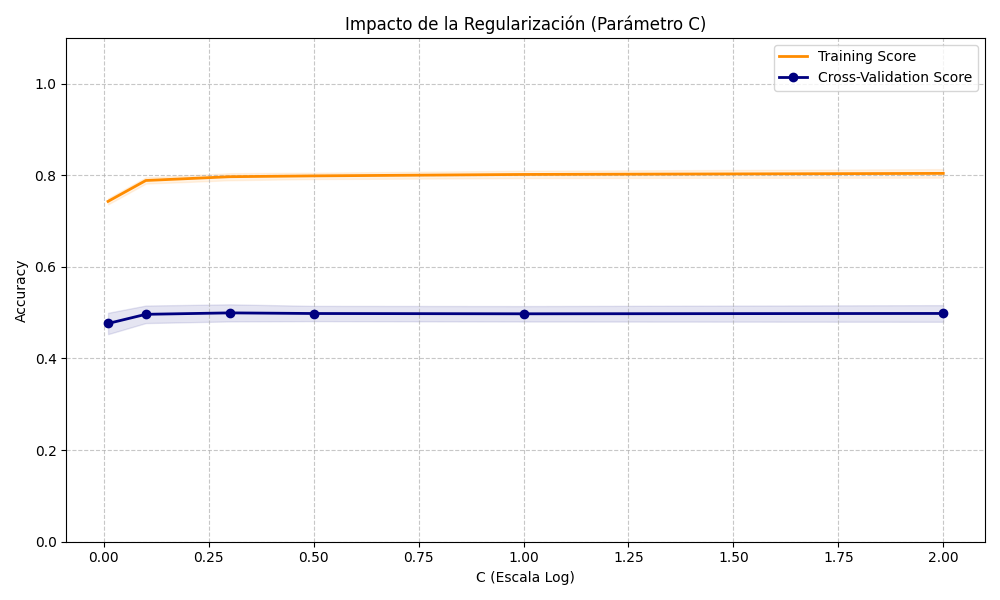
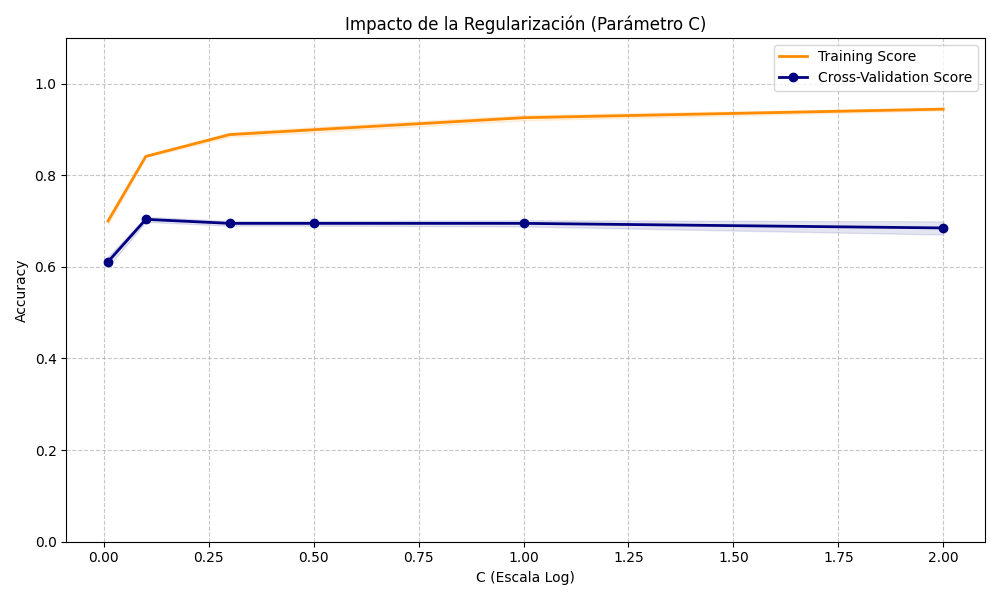
30s

diff --git a/main.py b/main.py
@@ -65,7 +65,7 @@ def triar_model():
     print(" [9] Tots els models de CLASSIFICACIÓ (1-9)")
     
     while True:
-        choice = input("Introdueix 0-10: ").strip()
+        choice = input("Introdueix 0-9: ").strip()
         if choice.isdigit() and 0 <= int(choice) <= 10:
             return choice
         else:
@@ -129,7 +129,7 @@ def main():
         model_map_classificacio = {
             '1': lambda: executar_knn(X_train, X_test, y_train, y_test, label_encoder, data_type, best_k=4, best_weights='distance', best_p=1),
             '2': lambda: executar_random_forest(X_train, X_test, y_train, y_test, label_encoder, data_type, n_estimators=50, max_depth=8, min_samples_split=15, min_samples_leaf=5),
-            '3': lambda: executar_svm(X_train, X_test, y_train, y_test, label_encoder, data_type, C=1, gamma=0.005),
+            '3': lambda: executar_svm(X_train, X_test, y_train, y_test, label_encoder, data_type, C=1, gamma=0.002), #3s(c=1,gamma=0.005), 30s (c=1,gamma=0.002)
             '4': lambda: executar_xgboost(X_train, X_test, y_train, y_test, label_encoder, scaler, data_type),
             '5': lambda: executar_regressio_logistica(X_train, X_test, y_train, y_test, label_encoder, data_type),
             '6': lambda: executar_decision_tree(X_train, X_test, y_train, y_test, label_encoder, data_type),
@@ -156,7 +156,7 @@ def main():
                     prob_dict[result['model']] = result['probabilities']
                     model_names_list.append(result['model'])
 
-            if choice == '10' and prob_dict:
+            if choice == '9' and prob_dict:
                 plot_comparative_roc(y_test, prob_dict, model_names_list, label_encoder.classes_, data_type)
 
             # TAULA FINAL

diff --git a/Analisis_LR.py b/Analisis_LR.py
@@ -42,7 +42,7 @@ def main():
     print("--- 🔬 LABORATORI D'ANÀLISI REGRESSIÓ LOGÍSTICA ---")
     
     # 1. Carregar dades
-    X_train, X_test, y_train, y_test, label_encoder, scaler = split_datos_3s(random_state=RANDOM_STATE)
+    X_train, X_test, y_train, y_test, label_encoder, scaler = split_datos_30s(random_state=RANDOM_STATE)
     
     # 2. Definir Model Base per a Exploració
     # 'lbfgs' és el solver per defecte i robust per a problemes multiclasse
@@ -69,7 +69,7 @@ def main():
 
     # --- GRÁFICA 2: JUSTIFICACIÓN DE MAX_ITER ---
     #     
-    model_iter = LogisticRegression(**fixed_params, C=0.2)
+    model_iter = LogisticRegression(**fixed_params, C=0.01)
     plot_single_validation_curve(
         model_iter, X_train, y_train,
         param_name="max_iter",

diff --git a/Analisis_SVM.py b/Analisis_SVM.py
@@ -6,8 +6,7 @@ from sklearn.svm import SVC
 from sklearn.model_selection import validation_curve, learning_curve
 import os
 
-from carrega_dades import split_datos_3s   # ← IMPORTA LES TEVES FUNCIONS
-                                           # (el fitxer que m’acabes de passar)
+from carrega_dades import split_datos_3s,split_datos_30s   
 
 # ======================================================
 # CONFIGURACIÓ
@@ -101,7 +100,7 @@ def main():
     # 2. Model base
     # -------------------------
     base_model = SVC(
-        #C=0.5
+        #C=1
         #gamma = 0.005
         kernel='rbf',
         probability=True,

diff --git a/Models.py b/Models.py
@@ -397,7 +397,8 @@ def executar_xgboost(X_train, X_test, y_train, y_test, label_encoder, scaler, da
     }
 
 def executar_regressio_logistica(X_train, X_test, y_train, y_test, label_encoder, data_type, 
-                                 C=0.2, penalty='l2', solver='lbfgs', max_iter=50, random_state=42):
+                                 C=0.01, penalty='l2', solver='lbfgs', max_iter=50, random_state=42):
+    # AMb 3s(C=0.2,iter=50),30s(c=0.01,iter=50)
     """
     Entrena, avalua i genera els plots del model de Regressió Logística
     per a la classificació multiclase.
